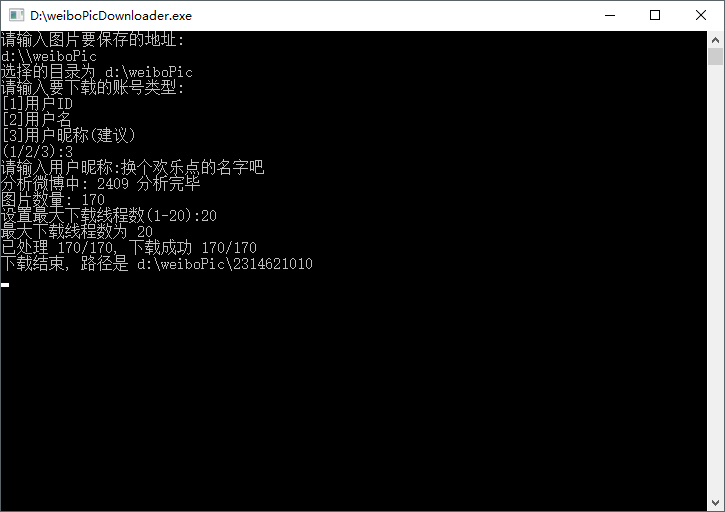
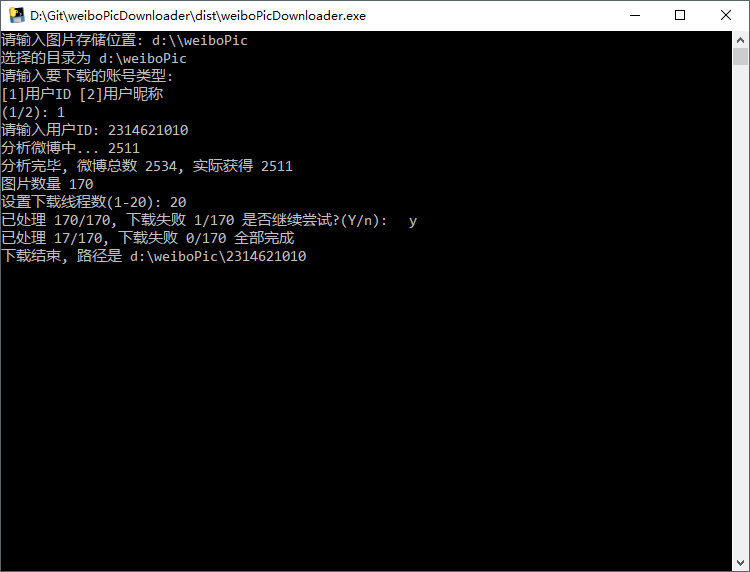
api adjustment

diff --git a/weiboPicDownloader.py b/weiboPicDownloader.py
@@ -5,14 +5,9 @@ Created on Fri Sep 15 01:38:07 2017
 @author: nondanee
 """
 
-import os
-import sys
-import locale
-import time
-import json
-import re
-import ssl
-import urllib2
+import os, sys, locale
+import json, re, time
+import ssl, urllib2
 import concurrent.futures
 
 try:
@@ -22,7 +17,6 @@ except:
     pass
 
 USER_AGENT = "Mozilla/5.0 (Windows NT 6.1; Win64; x64) AppleWebKit/537.36 (KHTML, like Gecko) Chrome/59.0.3071.115 Safari/537.36"
-WEIBO_AMOUNT = 0
 PIC_AMOUNT = 0
 SAVE_PATH = ""
 
@@ -33,7 +27,7 @@ def print_fit(string,flush=False):
     else:
         print string.decode("utf-8").encode(sys.stdin.encoding or locale.getpreferredencoding(True))
         
-def raw_input_fit(string = ""):
+def raw_input_fit(string=""):
     prompt = string.decode("utf-8").encode(sys.stdin.encoding or locale.getpreferredencoding(True))
     return raw_input(prompt).decode(sys.stdin.encoding or locale.getpreferredencoding(True))
     
@@ -44,54 +38,42 @@ def open_and_read(url,max_retry):
         try:            
             response = urllib2.urlopen(request,timeout = 5)
             return response.read()
-        except Exception as e:
+        except:
             retry = retry + 1
-            if retry > max_retry:
+            if retry > max_retry: 
                 return
 
-def get_img_urls(containerid,page):
-    count = 25
-    url = "https://m.weibo.cn/api/container/getIndex?count={}&page={}&containerid={}".format(count,page,containerid)
-    data = open_and_read(url = url,max_retry = 3)
-    if data == None:
-        return []
-
-    jsondata = json.loads(data)
-    if len(jsondata["cards"]) == 0:
-        return
-
+def get_img_urls(containerid):
+    page = 1
+    amount = 0
+    total = 0
     urls = []
-    global WEIBO_AMOUNT
-    
-    for card in jsondata["cards"]:
-        WEIBO_AMOUNT = WEIBO_AMOUNT + 1
-        print_fit("分析微博中: {}".format(WEIBO_AMOUNT),flush=True)
-        if "mblog" in card:
-            if "pics" in card["mblog"]:
-                for pic in card["mblog"]["pics"]:
-                    if "large" in pic:
-                        urls.append(pic["large"]["url"])
+    while True:
+        url = "https://m.weibo.cn/api/container/getIndex?count={}&page={}&containerid={}".format(25,page,containerid)
+        data = open_and_read(url = url,max_retry = 3)
+        if data == None: continue
+        json_data = json.loads(data)
+        if json_data["ok"] != 1: break
+        total = json_data["data"]["cardlistInfo"]["total"]
+        cards = json_data["data"]["cards"]
+        for card in cards:
+            amount = amount + 1
+            print_fit("分析微博中... {}".format(amount),flush=True)
+            if "mblog" in card:
+                if "pics" in card["mblog"]:
+                    for pic in card["mblog"]["pics"]:
+                        if "large" in pic:
+                            urls.append(pic["large"]["url"])
+        page = page + 1
+        time.sleep(1)
+        
+    print_fit("\n分析完毕, 微博总数 {}, 实际获得 {}".format(total,amount))
     return urls
 
 def uid_to_containerid(uid):
     if re.search(r'^\d{10}$',uid) == None:
         return
     else:
-        return "107603" + uid
-       
-def username_to_containerid(name):
-    url = "https://weibo.cn/" + name.encode("utf-8")
-    requset = urllib2.Request(url = url, headers = {'User-Agent' : USER_AGENT})
-    try:
-        response = urllib2.urlopen(requset)
-    except urllib2.HTTPError:
-        return
-    htmlback = response.read()
-    find = re.search(r'<a href="/(\d{10})/info">',htmlback)
-    if find == None:
-        return
-    else:
-        uid = find.group(1)
         return "107603" + uid
         
 def nickname_to_containerid(nickname):
@@ -109,9 +91,9 @@ def nickname_to_containerid(nickname):
         return "107603" + uid
         
 def get_containerid(account_type):
-    input_tips = ["请输入用户ID:","请输入用户名:","请输入用户昵称:"]
-    error_info = ["用户ID无效\n","无法找到该用户\n","无法找到该用户\n"]
-    functions = [uid_to_containerid,username_to_containerid,nickname_to_containerid]
+    input_tips = ["请输入用户ID: ","请输入用户昵称: "]
+    error_info = ["用户ID无效\n","无法找到该用户\n"]
+    functions = [uid_to_containerid,nickname_to_containerid]
     input_string = raw_input_fit(input_tips[account_type])
     input_string = re.sub("\s","",input_string)
     if input_string == "":
@@ -146,12 +128,11 @@ def get_task(urls,miss):
 
 def main():
     while True:
-        print_fit("请输入图片要保存的地址:")
-        home_path = os.path.realpath(raw_input_fit())
+        home_path = os.path.realpath(raw_input_fit("请输入图片存储位置: "))
         print_fit("选择的目录为 {}".format(home_path.encode("utf-8")))
         if os.path.exists(home_path) == True:
             break
-        confirm = raw_input_fit("该目录不存在, 是否创建?(Y/n):")
+        confirm = raw_input_fit("该目录不存在, 是否创建?(Y/n): ")
         confirm = re.sub("\s","",confirm)
         if confirm == "y" or confirm == "Y" or confirm == "":
             try:
@@ -165,14 +146,14 @@ def main():
             print_fit("请手动创建, 或者更改目录\n")
                 
     while True:
-        print_fit("请输入要下载的账号类型:\n[1]用户ID\n[2]用户名\n[3]用户昵称(建议)")
-        choice = raw_input_fit("(1/2/3):")
+        print_fit("请输入要下载的账号类型:\n[1]用户ID [2]用户昵称")
+        choice = raw_input_fit("(1/2): ")
         try:
             choice = int(choice)
         except:
-            choice = 3
-        if choice not in [1,2,3]:
-            choice = 3
+            choice = 2
+        if choice not in [1,2]:
+            choice = 2
         containerid = get_containerid(choice - 1)
         if containerid != None:
             break  
@@ -181,26 +162,14 @@ def main():
     SAVE_PATH = os.path.join(home_path,containerid[6:]) 
     if os.path.exists(SAVE_PATH) == False:
         os.mkdir(SAVE_PATH)
+
+    urls = get_img_urls(containerid)
     
-    global WEIBO_AMOUNT
-    WEIBO_AMOUNT = 0
-    page = 1
-    urls = []
-    while True:
-        more = get_img_urls(containerid,page)
-        if more != None:
-            urls.extend(more)
-            page = page + 1
-            time.sleep(1)
-        else:
-            break
-    
-    print_fit("分析完毕")
     global PIC_AMOUNT
     PIC_AMOUNT = len(urls)
-    print_fit("图片数量: {}".format(PIC_AMOUNT))
+    print_fit("图片数量 {}".format(PIC_AMOUNT))
     
-    max_workers = raw_input_fit("设置最大下载线程数(1-20):")
+    max_workers = raw_input_fit("设置下载线程数(1-20): ")
     try:
         max_workers = int(max_workers)
     except:
@@ -209,7 +178,6 @@ def main():
         max_workers = 20
     elif max_workers < 1:
         max_workers = 1
-    print_fit("最大下载线程数为 {}".format(max_workers))
             
 #    pool = concurrent.futures.ThreadPoolExecutor(max_workers = max_workers)
 #    futures = []
@@ -232,7 +200,7 @@ def main():
             print_fit("已处理 {dealt}/{amount}, 下载失败 {failed}/{amount}".format(dealt=index+1,failed=len(miss),amount=PIC_AMOUNT),flush=True)
                 
         if len(miss) != 0:
-            confirm = raw_input_fit("是否继续尝试?(Y/n):")
+            confirm = raw_input_fit("是否继续尝试?(Y/n): ")
             confirm = re.sub("\s","",confirm)
             if confirm == "y" or confirm == "Y" or confirm == "":
                 continue

diff --git a/README.md b/README.md
@@ -1,9 +1,14 @@
 # 免登录下载微博图片(Python2移植版)
 
-批量下载特定用户的高清大图  
+批量下载微博图片
 移植自Java项目 [yAnXImIN/weiboPicDownloader](https://github.com/yAnXImIN/weiboPicDownloader)
+~~骗star~~
 
 ## 更新日志
+
+2017/12/24
+- 接口变更
+- 优化代码
 
 2017/11/14  
 - 优化代码
@@ -22,10 +27,10 @@
 - 更正一处编码错误
 - 优化代码  
 
-## 运行
+## 下载
 
-### 下载可执行文件
-转到[Release](https://github.com/nondanee/weiboPicDownloader/releases)标签下载，使用PyInstaller打包
+### 开箱即用
+转到 [Release](https://github.com/nondanee/weiboPicDownloader/releases) 下载，使用PyInstaller打包
 
 ### 克隆源码
 ```
@@ -33,19 +38,8 @@ git clone https://github.com/nondanee/weiboPicDownloader.git && cd weiboPicDownl
 pip install futures
 python weiboPicDownloader.py
 ```
-*无法运行? 那很有可能是我写崩了, 来提issue或者自己动手丰衣足食*
 
-## 使用
-
-*多线程下载较占带宽, 可能影响正常上网*
-
-1. 输入要保存图片的地址
-2. 输入 3 当然你也可以输入1和2, 具体可以看[原作者(yAnXImIN)](https://github.com/yAnXImIN/)的[这篇博客](http://blog.yanximin.site/2017/09/05/weibo-userid-containerid/)
-3. 输入用户昵称
-4. 等待下载完成即可. So Easy!
-
-
+## 运行
 ![show](show/screenshot.png)
 
-欢迎Fork, 或者PR  
-要是能骗点Star最好了 :)  
+*运行报错? 很有可能是接口又改了, 来提issue我会及时跟进*
